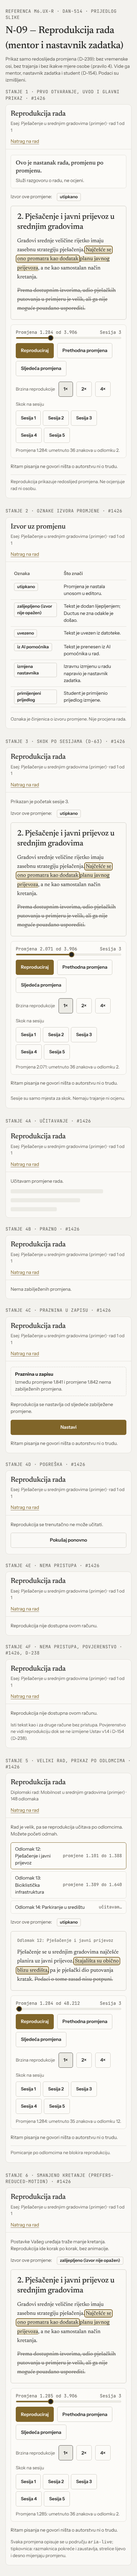
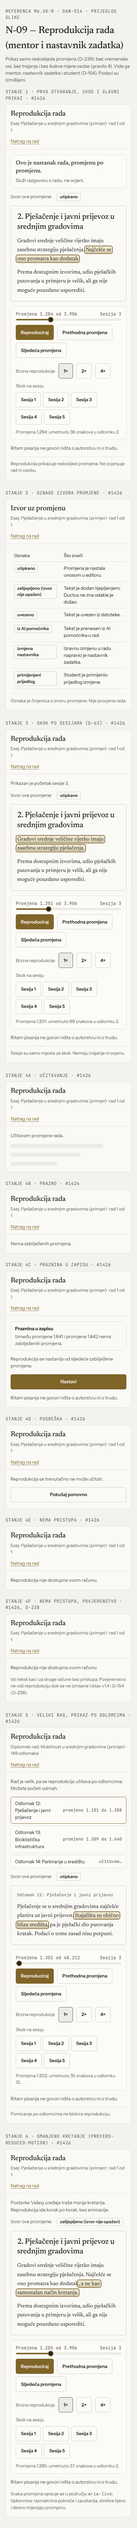
docs: make M6 replay reference change and session numbers consistent (DAN-514)
Claude-Session: https://claude.ai/code/session_011GCKGAvxwxM89xRPopFRkb

Changed region(s): [[0.03, 0.0, 0.93, 0.9974], [0.78, 0.1558, 0.84, 0.187], [0.75, 0.9662, 0.81, 0.9974]]

diff --git a/docs/design/ductura/m6-reference/n09-reprodukcija-nastavnik.html b/docs/design/ductura/m6-reference/n09-reprodukcija-nastavnik.html
@@ -22,9 +22,8 @@
         <div class="src-line"><span>Izvor ove promjene:</span><span class="src-tag">utipkano</span></div>
         <div class="sheet" aria-label="Tekst rada u trenutku odabrane promjene">
           <h3>2. Pješačenje i javni prijevoz u srednjim gradovima</h3>
-          <p>Gradovi srednje veličine rijetko imaju zasebnu strategiju pješačenja. <span class="ins cur">Najčešće se ono promatra kao dodatak</span> <span class="ins">planu javnog prijevoza</span>, a ne kao samostalan način kretanja.</p>
-          <p><span class="del">Prema dostupnim izvorima, udio pješačkih putovanja u primjeru je velik, ali ga nije moguće pouzdano usporediti.</span></p>
-          
+          <p>Gradovi srednje veličine rijetko imaju zasebnu strategiju pješačenja. <span class="ins cur">Najčešće se ono promatra kao dodatak</span></p>
+          <p>Prema dostupnim izvorima, udio pješačkih putovanja u primjeru je velik, ali ga nije moguće pouzdano usporediti.</p>
         </div>
         <div class="controls" role="group" aria-label="Kontrole reprodukcije">
           <div class="slider">
@@ -72,14 +71,13 @@
         <div class="src-line"><span>Izvor ove promjene:</span><span class="src-tag">utipkano</span></div>
         <div class="sheet" aria-label="Tekst rada u trenutku odabrane promjene">
           <h3>2. Pješačenje i javni prijevoz u srednjim gradovima</h3>
-          <p>Gradovi srednje veličine rijetko imaju zasebnu strategiju pješačenja. <span class="ins cur">Najčešće se ono promatra kao dodatak</span> <span class="ins">planu javnog prijevoza</span>, a ne kao samostalan način kretanja.</p>
-          <p><span class="del">Prema dostupnim izvorima, udio pješačkih putovanja u primjeru je velik, ali ga nije moguće pouzdano usporediti.</span></p>
-          
+          <p><span class="ins cur">Gradovi srednje veličine rijetko imaju zasebnu strategiju pješačenja.</span></p>
+          <p>Prema dostupnim izvorima, udio pješačkih putovanja u primjeru je velik, ali ga nije moguće pouzdano usporediti.</p>
         </div>
         <div class="controls" role="group" aria-label="Kontrole reprodukcije">
           <div class="slider">
-            <div class="slider-label"><span>Promjena 2.071 od 3.906</span><span>Sesija 3</span></div>
-            <div class="track" role="slider" tabindex="0" aria-label="Promjena" aria-valuemin="1" aria-valuemax="3906" aria-valuenow="2071" aria-valuetext="Promjena 2.071 od 3.906"><div class="fill" style="width:53%"></div><div class="thumb" style="left:53%"></div></div>
+            <div class="slider-label"><span>Promjena 1.201 od 3.906</span><span>Sesija 3</span></div>
+            <div class="track" role="slider" tabindex="0" aria-label="Promjena" aria-valuemin="1" aria-valuemax="3906" aria-valuenow="1201" aria-valuetext="Promjena 1.201 od 3.906"><div class="fill" style="width:31%"></div><div class="thumb" style="left:31%"></div></div>
           </div>
           <div class="ctl-row">
             <button class="btn" type="button">Reproduciraj</button>
@@ -89,7 +87,7 @@
             <span class="meta" id="spd">Brzina reprodukcije</span><button class="btn secondary" type="button" aria-pressed="true">1×</button><button class="btn secondary" type="button" aria-pressed="false">2×</button><button class="btn secondary" type="button" aria-pressed="false">4×</button>
           </div>
           <div class="ctl-row"><span class="meta">Skok na sesiju</span><div class="sessions"><button class="btn secondary" type="button">Sesija 1</button><button class="btn secondary" type="button">Sesija 2</button><button class="btn secondary" type="button" aria-current="true">Sesija 3</button><button class="btn secondary" type="button">Sesija 4</button><button class="btn secondary" type="button">Sesija 5</button></div></div>
-          <p class="live" role="status" aria-live="polite">Promjena 2.071: umetnuto 36 znakova u odlomku 2.</p>
+          <p class="live" role="status" aria-live="polite">Promjena 1.201: umetnuto 69 znakova u odlomku 2.</p>
         </div>
         <p class="note">Ritam pisanja ne govori ništa o autorstvu ni o trudu.</p>
         <p class="foot">Sesije su samo mjesta za skok. Nemaju trajanje ni ocjenu.</p>
@@ -172,12 +170,12 @@
         <div class="src-line"><span>Izvor ove promjene:</span><span class="src-tag">utipkano</span></div>
         <div class="sheet" aria-label="Tekst odabranog odlomka u trenutku odabrane promjene">
           <p class="para-mark">Odlomak 12: Pješačenje i javni prijevoz</p>
-          <p>Pješačenje se u srednjim gradovima najčešće planira uz javni prijevoz. <span class="ins cur">Stajališta su obično blizu središta</span>, pa je pješački dio putovanja kratak. <span class="del">Podaci o tome zasad nisu potpuni.</span></p>
+          <p>Pješačenje se u srednjim gradovima najčešće planira uz javni prijevoz. <span class="ins cur">Stajališta su obično blizu središta</span>, pa je pješački dio putovanja kratak. Podaci o tome zasad nisu potpuni.</p>
         </div>
         <div class="controls" role="group" aria-label="Kontrole reprodukcije">
           <div class="slider">
-            <div class="slider-label"><span>Promjena 1.284 od 48.212</span><span>Sesija 3</span></div>
-            <div class="track" role="slider" tabindex="0" aria-label="Promjena" aria-valuemin="1" aria-valuemax="48212" aria-valuenow="1284" aria-valuetext="Promjena 1.284 od 48.212"><div class="fill" style="width:3%"></div><div class="thumb" style="left:3%"></div></div>
+            <div class="slider-label"><span>Promjena 1.302 od 48.212</span><span>Sesija 3</span></div>
+            <div class="track" role="slider" tabindex="0" aria-label="Promjena" aria-valuemin="1" aria-valuemax="48212" aria-valuenow="1302" aria-valuetext="Promjena 1.302 od 48.212"><div class="fill" style="width:3%"></div><div class="thumb" style="left:3%"></div></div>
           </div>
           <div class="ctl-row">
             <button class="btn" type="button">Reproduciraj</button>
@@ -187,7 +185,7 @@
             <span class="meta" id="spd">Brzina reprodukcije</span><button class="btn secondary" type="button" aria-pressed="true">1×</button><button class="btn secondary" type="button" aria-pressed="false">2×</button><button class="btn secondary" type="button" aria-pressed="false">4×</button>
           </div>
           <div class="ctl-row"><span class="meta">Skok na sesiju</span><div class="sessions"><button class="btn secondary" type="button">Sesija 1</button><button class="btn secondary" type="button">Sesija 2</button><button class="btn secondary" type="button" aria-current="true">Sesija 3</button><button class="btn secondary" type="button">Sesija 4</button><button class="btn secondary" type="button">Sesija 5</button></div></div>
-          <p class="live" role="status" aria-live="polite">Promjena 1.284: umetnuto 35 znakova u odlomku 12.</p>
+          <p class="live" role="status" aria-live="polite">Promjena 1.302: umetnuto 35 znakova u odlomku 12.</p>
         </div>
         <p class="note">Ritam pisanja ne govori ništa o autorstvu ni o trudu.</p>
         <p class="foot">Pomicanje po odlomcima ne blokira reprodukciju.</p>
@@ -203,9 +201,8 @@
         <div class="src-line"><span>Izvor ove promjene:</span><span class="src-tag">zalijepljeno (izvor nije opažen)</span></div>
         <div class="sheet" aria-label="Tekst rada u trenutku odabrane promjene">
           <h3>2. Pješačenje i javni prijevoz u srednjim gradovima</h3>
-          <p>Gradovi srednje veličine rijetko imaju zasebnu strategiju pješačenja. <span class="ins cur">Najčešće se ono promatra kao dodatak</span> <span class="ins">planu javnog prijevoza</span>, a ne kao samostalan način kretanja.</p>
-          <p><span class="del">Prema dostupnim izvorima, udio pješačkih putovanja u primjeru je velik, ali ga nije moguće pouzdano usporediti.</span></p>
-          
+          <p>Gradovi srednje veličine rijetko imaju zasebnu strategiju pješačenja. Najčešće se ono promatra kao dodatak<span class="ins cur">, a ne kao samostalan način kretanja.</span></p>
+          <p>Prema dostupnim izvorima, udio pješačkih putovanja u primjeru je velik, ali ga nije moguće pouzdano usporediti.</p>
         </div>
         <div class="controls" role="group" aria-label="Kontrole reprodukcije">
           <div class="slider">
@@ -220,7 +217,7 @@
             <span class="meta" id="spd">Brzina reprodukcije</span><button class="btn secondary" type="button" aria-pressed="true">1×</button><button class="btn secondary" type="button" aria-pressed="false">2×</button><button class="btn secondary" type="button" aria-pressed="false">4×</button>
           </div>
           <div class="ctl-row"><span class="meta">Skok na sesiju</span><div class="sessions"><button class="btn secondary" type="button">Sesija 1</button><button class="btn secondary" type="button">Sesija 2</button><button class="btn secondary" type="button" aria-current="true">Sesija 3</button><button class="btn secondary" type="button">Sesija 4</button><button class="btn secondary" type="button">Sesija 5</button></div></div>
-          <p class="live" role="status" aria-live="polite">Promjena 1.285: umetnuto 36 znakova u odlomku 2.</p>
+          <p class="live" role="status" aria-live="polite">Promjena 1.285: umetnuto 37 znakova u odlomku 2.</p>
         </div>
         <p class="note">Ritam pisanja ne govori ništa o autorstvu ni o trudu.</p>
         <p class="meta">Svaka promjena opisuje se u području <code>aria-live</code>; tipkovnica: razmaknica pokreće i zaustavlja, strelice lijevo i desno mijenjaju promjenu.</p>

diff --git a/docs/design/ductura/m6-reference/s34-reprodukcija-student.html b/docs/design/ductura/m6-reference/s34-reprodukcija-student.html
@@ -22,9 +22,8 @@
         <div class="src-line"><span>Izvor ove promjene:</span><span class="src-tag">utipkano</span></div>
         <div class="sheet" aria-label="Tekst rada u trenutku odabrane promjene">
           <h3>2. Pješačenje i javni prijevoz u srednjim gradovima</h3>
-          <p>Gradovi srednje veličine rijetko imaju zasebnu strategiju pješačenja. <span class="ins cur">Najčešće se ono promatra kao dodatak</span> <span class="ins">planu javnog prijevoza</span>, a ne kao samostalan način kretanja.</p>
-          <p><span class="del">Prema dostupnim izvorima, udio pješačkih putovanja u primjeru je velik, ali ga nije moguće pouzdano usporediti.</span></p>
-          
+          <p>Gradovi srednje veličine rijetko imaju zasebnu strategiju pješačenja. <span class="ins cur">Najčešće se ono promatra kao dodatak</span></p>
+          <p>Prema dostupnim izvorima, udio pješačkih putovanja u primjeru je velik, ali ga nije moguće pouzdano usporediti.</p>
         </div>
         <div class="controls" role="group" aria-label="Kontrole reprodukcije">
           <div class="slider">
@@ -55,9 +54,8 @@
         <div class="src-line"><span>Izvor ove promjene:</span><span class="src-tag">primijenjeni prijedlog</span></div>
         <div class="sheet" aria-label="Tekst rada u trenutku odabrane promjene">
           <h3>2. Pješačenje i javni prijevoz u srednjim gradovima</h3>
-          <p>Gradovi srednje veličine rijetko imaju zasebnu strategiju pješačenja. <span class="ins cur">Najčešće se ono promatra kao dodatak</span> <span class="ins">planu javnog prijevoza</span>, a ne kao samostalan način kretanja.</p>
+          <p>Gradovi srednje veličine rijetko imaju zasebnu strategiju pješačenja. Najčešće se ono promatra kao dodatak<span class="ins cur"> planu javnog prijevoza</span>, a ne kao samostalan način kretanja.</p>
           <p><span class="del">Prema dostupnim izvorima, udio pješačkih putovanja u primjeru je velik, ali ga nije moguće pouzdano usporediti.</span></p>
-          
         </div>
         <div class="controls" role="group" aria-label="Kontrole reprodukcije">
           <div class="slider">
@@ -72,7 +70,7 @@
             <span class="meta" id="spd">Brzina reprodukcije</span><button class="btn secondary" type="button" aria-pressed="true">1×</button><button class="btn secondary" type="button" aria-pressed="false">2×</button><button class="btn secondary" type="button" aria-pressed="false">4×</button>
           </div>
           <div class="ctl-row"><span class="meta">Skok na sesiju</span><div class="sessions"><button class="btn secondary" type="button">Sesija 1</button><button class="btn secondary" type="button">Sesija 2</button><button class="btn secondary" type="button">Sesija 3</button><button class="btn secondary" type="button" aria-current="true">Sesija 4</button><button class="btn secondary" type="button">Sesija 5</button></div></div>
-          <p class="live" role="status" aria-live="polite">Promjena 2.640: obrisano 111 znakova u odlomku 3; umetnuto 36 znakova u odlomku 2.</p>
+          <p class="live" role="status" aria-live="polite">Promjena 2.640: obrisano 111 znakova u odlomku 3; umetnuto 23 znaka u odlomku 2.</p>
         </div>
         <p class="note">Ritam pisanja ne govori ništa o autorstvu ni o trudu.</p>
         <p class="foot">Isti prikaz vidi i Vaš mentor.</p>

diff --git a/docs/design/ductura/m6-reference/README.md b/docs/design/ductura/m6-reference/README.md
@@ -29,6 +29,8 @@ Opseg M6.UX-R po odluci orkestratora (#1091): PR 1 M6.2 (S-34, N-09); PR 2 M6.3/
 | smanjeno kretanje | korak po koraku bez animacije; tipkovnica: razmaknica, strelice |
 | stalni tekst | „Ritam pisanja ne govori ništa o autorstvu ni o trudu.” (`docs/PRODUCT.md` §6) u svakom stanju s reprodukcijom, uključujući prazninu u zapisu i veliki rad |
 
+Primjer je dosljedan kroz sva stanja: početci sesija su promjene 1, 640, 1.201, 2.071 i 3.012 (od 3.906); u svakoj su slici označene samo dionice trenutačne promjene (umetnuto s okvirom, obrisano prekriženo), a ranije promjene su običan tekst. Promjene 1.284 (utipkano) i 1.285 (zalijepljeno) su u sesiji 3, a 2.640 (primijenjeni prijedlog) u sesiji 4; skok na sesiju 3 prikazuje promjenu 1.201.
+
 Student vidi isti prikaz i rečenicu „Isti prikaz vidi i Vaš mentor.” (pravilo 5 i 7). Obrisani tekst prikazan je prekriženo uz objašnjenje.
 
 ## Snimke
